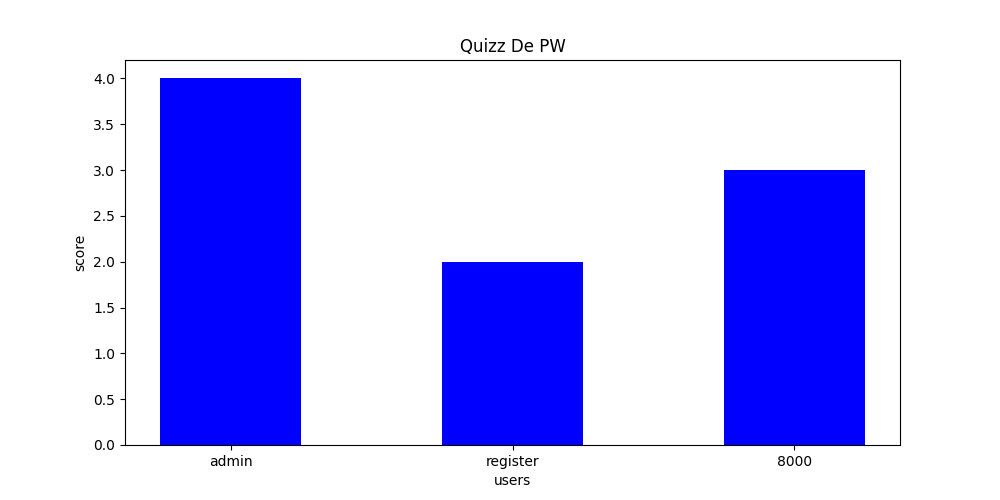
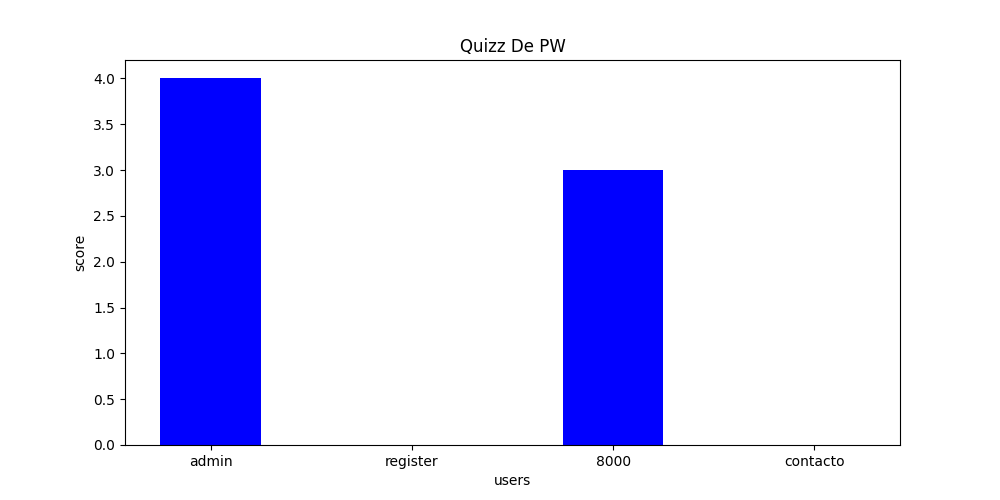
fds

diff --git a/portfolio/migrations/0001_initial.py b/portfolio/migrations/0001_initial.py
@@ -1,4 +1,4 @@
-# Generated by Django 4.0.4 on 2022-06-04 12:49
+# Generated by Django 4.0.4 on 2022-06-04 15:35
 
 from django.conf import settings
 from django.db import migrations, models
@@ -60,7 +60,7 @@ class Migration(migrations.Migration):
                 ('Q2', models.CharField(max_length=200, null=True)),
                 ('Q3', models.CharField(max_length=200, null=True)),
                 ('Q4', models.CharField(max_length=200, null=True)),
-                ('user', models.OneToOneField(on_delete=django.db.models.deletion.CASCADE, to=settings.AUTH_USER_MODEL)),
+                ('name', models.ForeignKey(blank=True, null=True, on_delete=django.db.models.deletion.SET_NULL, to=settings.AUTH_USER_MODEL)),
             ],
         ),
         migrations.CreateModel(

diff --git a/portfolio/models.py b/portfolio/models.py
@@ -39,15 +39,15 @@ class Projetos(models.Model):
 
 
 class pontuacaoquizz(models.Model):
+    name = models.CharField(max_length=50)
+
     Q1 = models.CharField(null=True, max_length=200)
     Q2 = models.CharField(null=True, max_length=200)
     Q3 = models.CharField(null=True, max_length=200)
     Q4 = models.CharField(null=True, max_length=200)
 
-    user = models.OneToOneField(User, on_delete=models.CASCADE)
-
     def __str__(self):
-        return self.user.username
+        return self.name
 
     """
         Q1 -> Qual o animal que a google aluga para o seu uso (cabra)

diff --git a/portfolio/views.py b/portfolio/views.py
@@ -135,8 +135,7 @@ def quizz_page_view(request):
                 form.name = user.username
                 form.save()
                 desenha_grafico_resultados(pontuacaoquizz.objects.all())
-
-                return HttpResponseRedirect(request.path_info, form)
+                return HttpResponseRedirect(request.path_info)
 
         else:
             context = {
